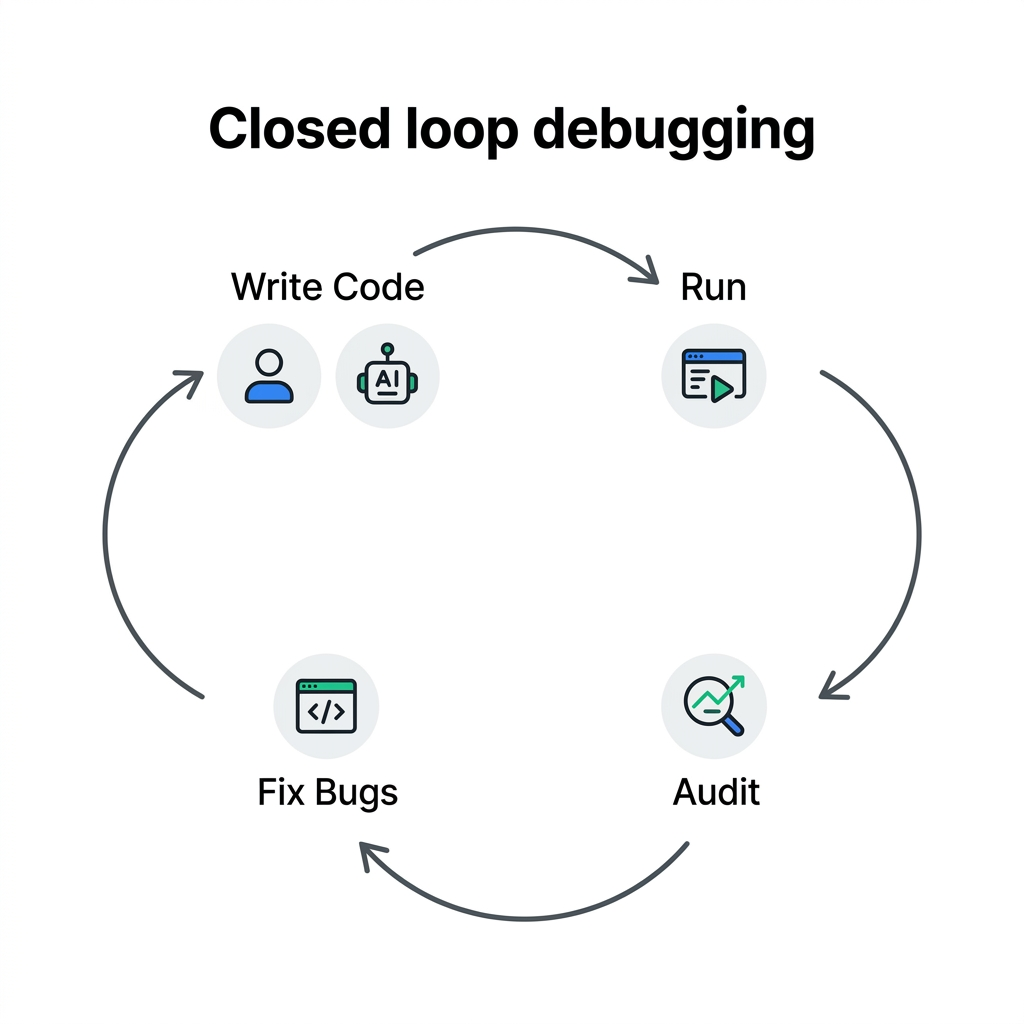
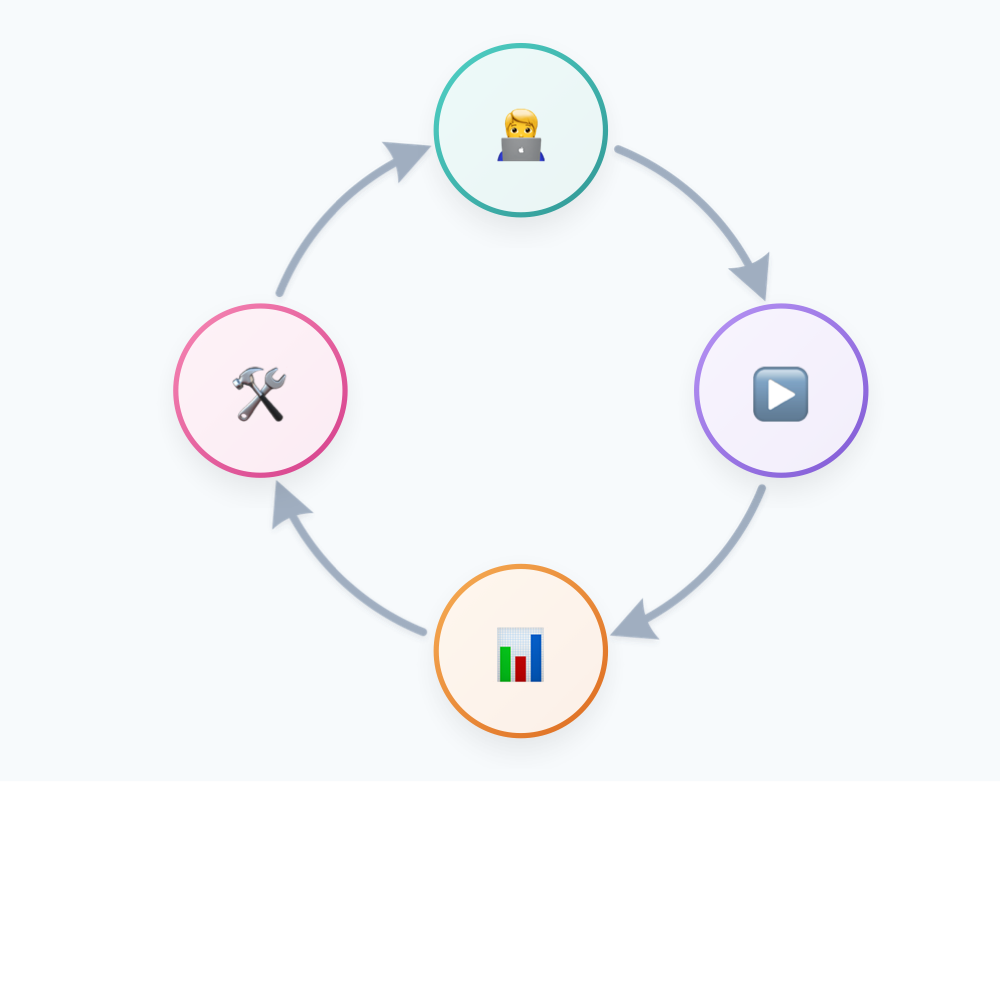
feat: replace closed-loop image with dynamic SVG generator and update display in index.html

diff --git a/demos/berlin-io-connect/index.html b/demos/berlin-io-connect/index.html
@@ -158,7 +158,7 @@
       <p>Using AI to help you debug and improve your web experiences.</p>
     </div>
     <div class="slide image-slide">
-      <img src="closed-loop.png" alt="Closed Loop Debugging Flowchart">
+      <img src="closed-loop.svg" alt="Closed Loop Debugging Flowchart" style="width: 80%; max-height: 80vh; object-fit: contain;">
     </div>
     <div class="slide image-slide">
       <h2

diff --git a/demos/berlin-io-connect/draw_flow.py b/demos/berlin-io-connect/draw_flow.py
@@ -1,0 +1,116 @@
+import math
+import subprocess
+
+def get_arc_path(cx, cy, r, start_angle, end_angle, padding_degrees=22):
+    start_rad = math.radians(start_angle + padding_degrees)
+    end_rad = math.radians(end_angle - padding_degrees)
+    
+    x1 = cx + r * math.cos(start_rad)
+    y1 = cy + r * math.sin(start_rad)
+    x2 = cx + r * math.cos(end_rad)
+    y2 = cy + r * math.sin(end_rad)
+    
+    # Large arc flag is 0 because the angle is 90 - 2*padding < 180
+    return f"M {x1:.2f} {y1:.2f} A {r} {r} 0 0 1 {x2:.2f} {y2:.2f}"
+
+def generate_svg():
+    cx, cy = 400, 300
+    r = 200
+    node_r = 65
+
+    # 0=Right, 90=Bottom, 180=Left, 270=Top
+    arcs = [
+        get_arc_path(cx, cy, r, 270, 360), # Top to Right
+        get_arc_path(cx, cy, r, 0, 90),    # Right to Bottom
+        get_arc_path(cx, cy, r, 90, 180),  # Bottom to Left
+        get_arc_path(cx, cy, r, 180, 270)  # Left to Top
+    ]
+
+    svg = f"""<svg xmlns="http://www.w3.org/2000/svg" viewBox="0 0 800 600" width="800" height="600">
+  <defs>
+    <!-- Modern drop shadow -->
+    <filter id="shadow" x="-20%" y="-20%" width="140%" height="140%">
+      <feDropShadow dx="0" dy="10" stdDeviation="15" flood-color="#1A202C" flood-opacity="0.1" />
+    </filter>
+    <filter id="arrow-shadow" x="-10%" y="-10%" width="120%" height="120%">
+      <feDropShadow dx="0" dy="2" stdDeviation="3" flood-color="#4A5568" flood-opacity="0.15" />
+    </filter>
+    
+    <!-- Gradients for fun aesthetic -->
+    <linearGradient id="grad-blue" x1="0%" y1="0%" x2="100%" y2="100%">
+      <stop offset="0%" stop-color="#4FD1C5" />
+      <stop offset="100%" stop-color="#319795" />
+    </linearGradient>
+    <linearGradient id="grad-purple" x1="0%" y1="0%" x2="100%" y2="100%">
+      <stop offset="0%" stop-color="#B794F4" />
+      <stop offset="100%" stop-color="#805AD5" />
+    </linearGradient>
+    <linearGradient id="grad-orange" x1="0%" y1="0%" x2="100%" y2="100%">
+      <stop offset="0%" stop-color="#F6AD55" />
+      <stop offset="100%" stop-color="#DD6B20" />
+    </linearGradient>
+    <linearGradient id="grad-pink" x1="0%" y1="0%" x2="100%" y2="100%">
+      <stop offset="0%" stop-color="#F687B3" />
+      <stop offset="100%" stop-color="#D53F8C" />
+    </linearGradient>
+
+    <!-- Clean arrowhead -->
+    <marker id="arrow" viewBox="0 0 14 14" refX="10" refY="7" markerWidth="8" markerHeight="8" orient="auto">
+      <path d="M 2 2 L 12 7 L 2 12 Q 4 7 2 2 Z" fill="#A0AEC0" />
+    </marker>
+  </defs>
+
+  <rect width="800" height="600" fill="#F7FAFC" />
+
+  <!-- Smooth arcs -->
+  <g stroke="#A0AEC0" stroke-width="6" fill="none" stroke-linecap="round" filter="url(#arrow-shadow)">
+    <path d="{arcs[0]}" marker-end="url(#arrow)" />
+    <path d="{arcs[1]}" marker-end="url(#arrow)" />
+    <path d="{arcs[2]}" marker-end="url(#arrow)" />
+    <path d="{arcs[3]}" marker-end="url(#arrow)" />
+  </g>
+
+  <!-- Nodes -->
+  <!-- Top: Write Code (Blue) -->
+  <g transform="translate(400, 100)">
+    <circle cx="0" cy="0" r="{node_r}" fill="#ffffff" filter="url(#shadow)" />
+    <circle cx="0" cy="0" r="{node_r}" fill="url(#grad-blue)" opacity="0.1" />
+    <circle cx="0" cy="0" r="{node_r}" fill="none" stroke="url(#grad-blue)" stroke-width="4" />
+    <text x="0" y="8" font-family="system-ui, -apple-system, sans-serif" font-size="42" text-anchor="middle" dominant-baseline="middle">🧑💻</text>
+  </g>
+
+  <!-- Right: Run (Purple) -->
+  <g transform="translate(600, 300)">
+    <circle cx="0" cy="0" r="{node_r}" fill="#ffffff" filter="url(#shadow)" />
+    <circle cx="0" cy="0" r="{node_r}" fill="url(#grad-purple)" opacity="0.1" />
+    <circle cx="0" cy="0" r="{node_r}" fill="none" stroke="url(#grad-purple)" stroke-width="4" />
+    <text x="0" y="8" font-family="system-ui, -apple-system, sans-serif" font-size="42" text-anchor="middle" dominant-baseline="middle">▶️</text>
+  </g>
+
+  <!-- Bottom: Audit (Orange) -->
+  <g transform="translate(400, 500)">
+    <circle cx="0" cy="0" r="{node_r}" fill="#ffffff" filter="url(#shadow)" />
+    <circle cx="0" cy="0" r="{node_r}" fill="url(#grad-orange)" opacity="0.1" />
+    <circle cx="0" cy="0" r="{node_r}" fill="none" stroke="url(#grad-orange)" stroke-width="4" />
+    <text x="0" y="8" font-family="system-ui, -apple-system, sans-serif" font-size="42" text-anchor="middle" dominant-baseline="middle">📊</text>
+  </g>
+
+  <!-- Left: Fix Bugs (Pink) -->
+  <g transform="translate(200, 300)">
+    <circle cx="0" cy="0" r="{node_r}" fill="#ffffff" filter="url(#shadow)" />
+    <circle cx="0" cy="0" r="{node_r}" fill="url(#grad-pink)" opacity="0.1" />
+    <circle cx="0" cy="0" r="{node_r}" fill="none" stroke="url(#grad-pink)" stroke-width="4" />
+    <text x="0" y="8" font-family="system-ui, -apple-system, sans-serif" font-size="42" text-anchor="middle" dominant-baseline="middle">🛠️</text>
+  </g>
+
+</svg>"""
+
+    with open("closed-loop.svg", "w") as f:
+        f.write(svg)
+
+    # Convert to PNG using qlmanage
+    subprocess.run(["qlmanage", "-t", "-s", "1000", "-o", ".", "closed-loop.svg"], check=True)
+    subprocess.run(["mv", "closed-loop.svg.png", "closed-loop.png"], check=True)
+
+if __name__ == "__main__":
+    generate_svg()